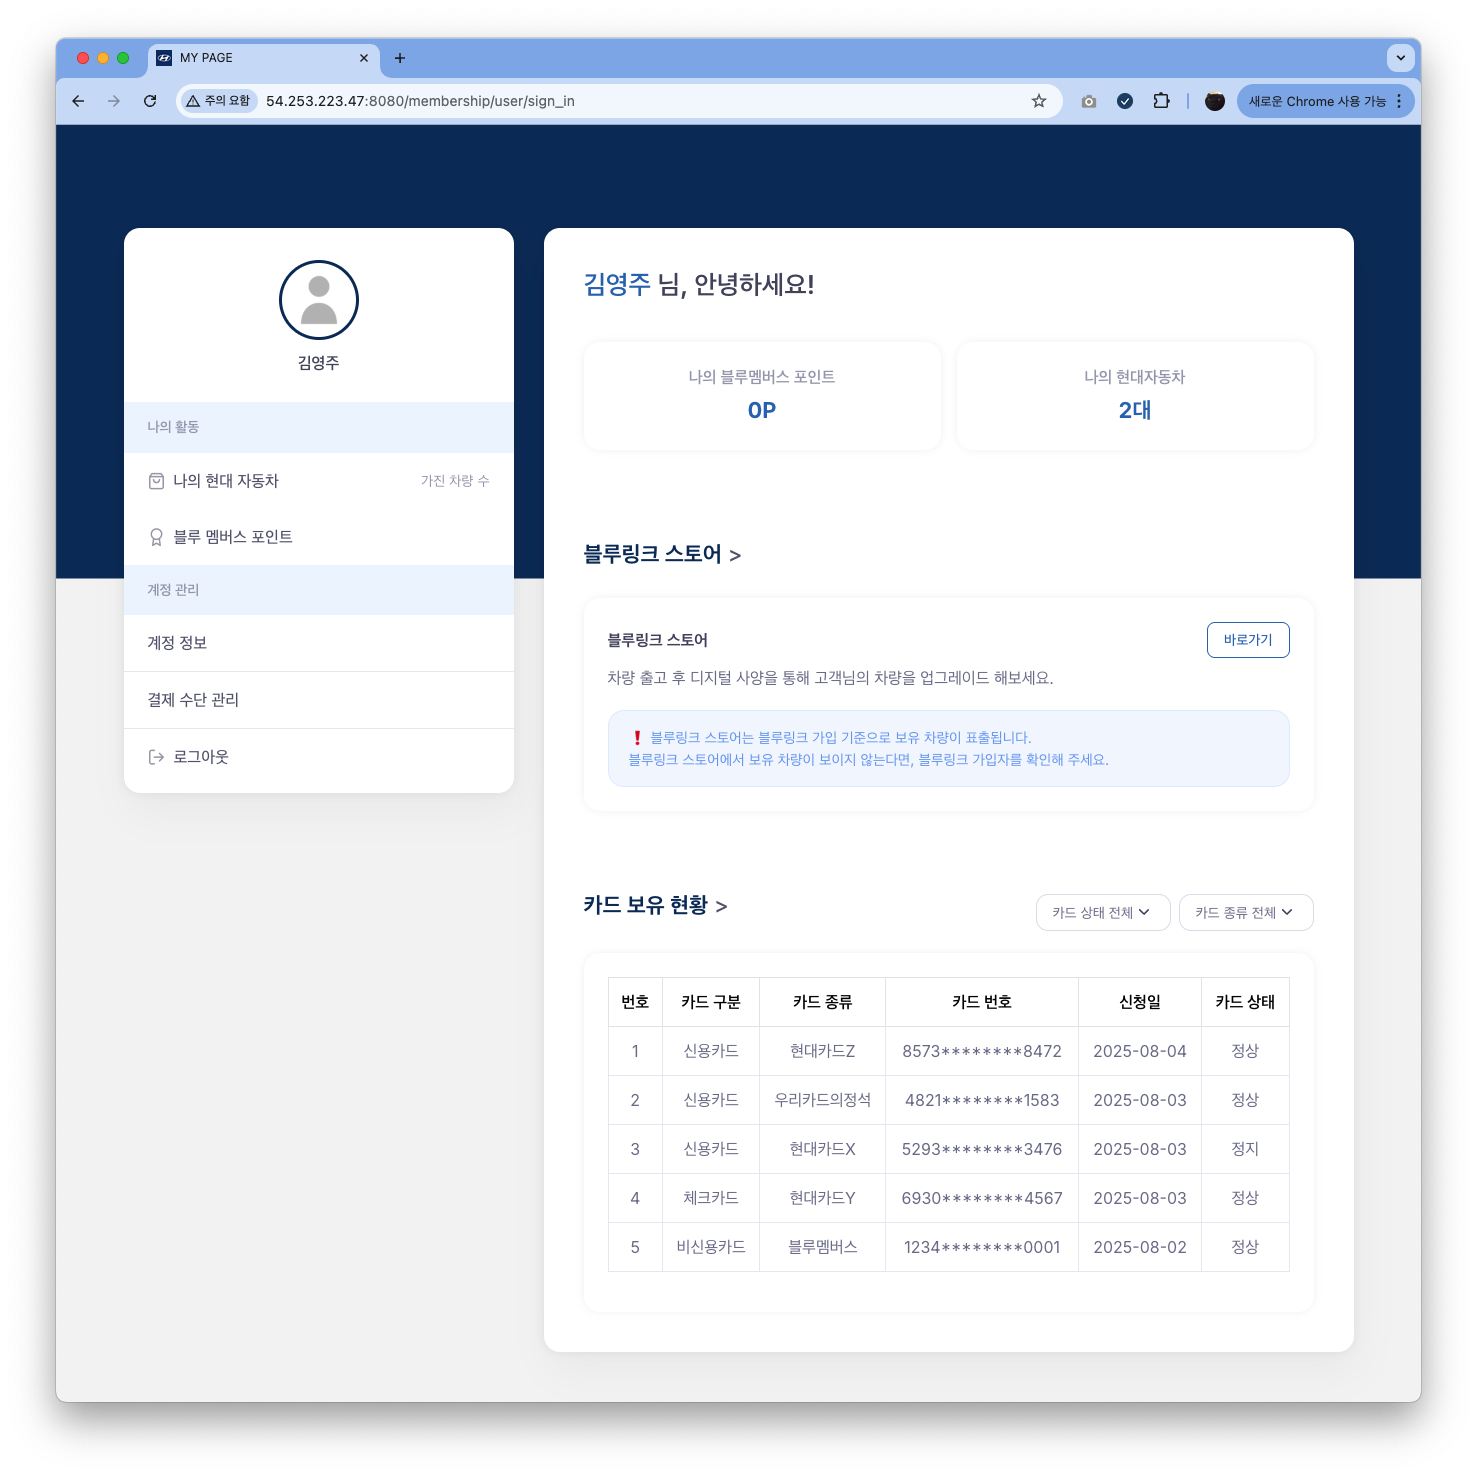
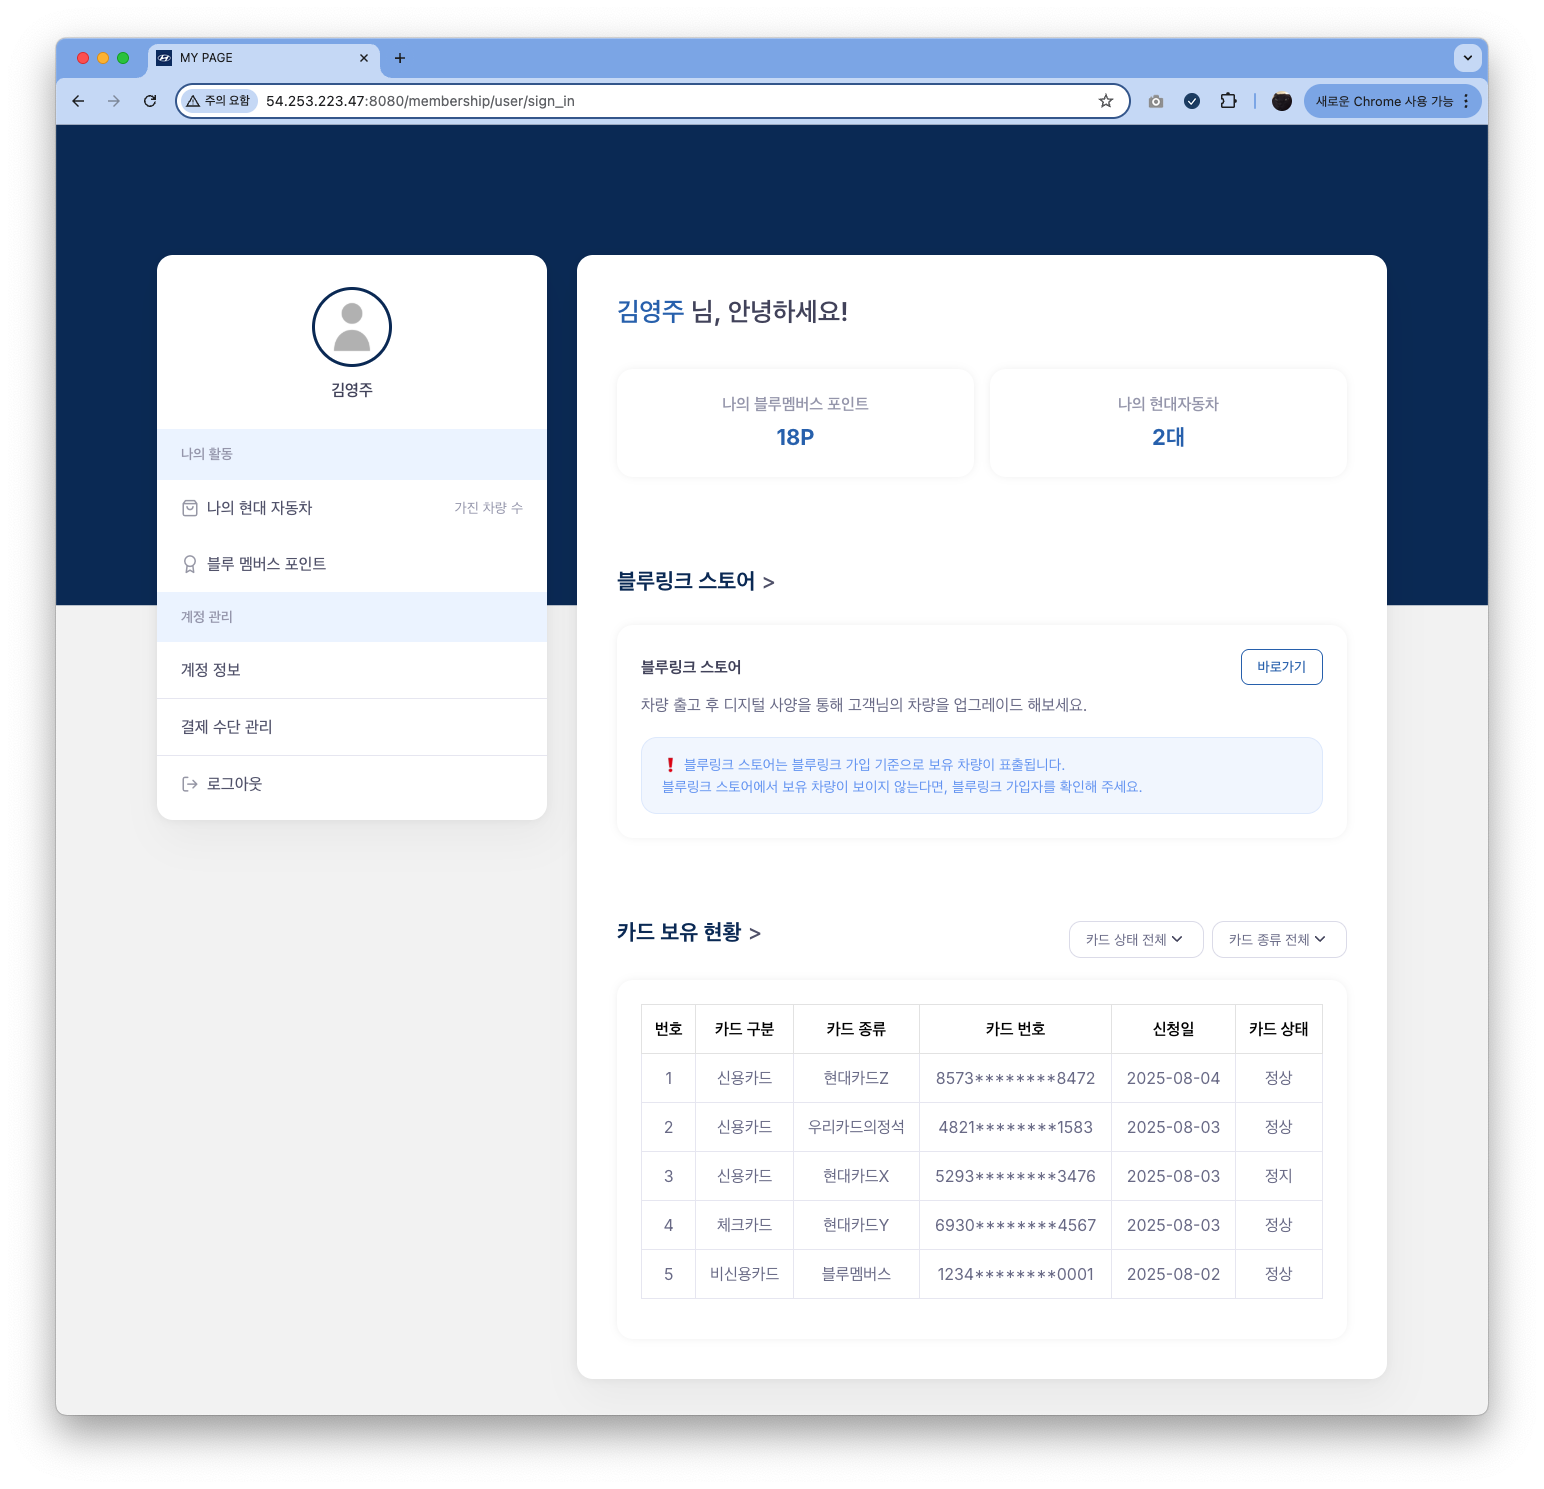
28th

diff --git a/html/workNetwork.html b/html/workNetwork.html
@@ -627,11 +627,11 @@ if (!isVerified) {
                                             <img src="../assets/img/collaborationTool.png" width="30" height="30">
                                             <span class="category-title"><strong>협업 툴</strong></span>
 
-                                            <div class="skill-tags">
+                                            <div class="skill-tags" style="margin-left: -30px;">
                                                 <span class="skill tag git">Git</span>
                                                 <span class="skill tag jira">Jira</span>
-                                                <span class="skill tag slack">Discord</span>
-                                                <span class="skill tag notion">Notion</span>
+                                                <!-- <span class="skill tag slack">Discord</span> -->
+                                                <!-- <span class="skill tag notion">Notion</span> -->
                                             </div>
                                         </div>
                                         </p>

diff --git a/html/mediSearch.html b/html/mediSearch.html
@@ -677,11 +677,11 @@
                                             <img src="../assets/img/collaborationTool.png" width="30" height="30">
                                             <span class="category-title"><strong>협업 툴</strong></span>
 
-                                            <div class="skill-tags">
+                                            <div class="skill-tags" style="margin-left: -30px;">
                                                 <span class="skill tag git">Git</span>
                                                 <span class="skill tag jira">Jira</span>
-                                                <span class="skill tag slack">Discord</span>
-                                                <span class="skill tag notion">Notion</span>
+                                                <!-- <span class="skill tag slack">Discord</span> -->
+                                                <!-- <span class="skill tag notion">Notion</span> -->
                                             </div>
                                         </div>
                                         </p>

diff --git a/html/CT_DLA_comparator.html b/html/CT_DLA_comparator.html
@@ -534,7 +534,7 @@
                                                 <span class="skill tag git">Git</span>
                                                 <!-- <span class="skill tag jira">Jira</span> -->
                                                 <!-- <span class="skill tag slack">Discord</span> -->
-                                                <span class="skill tag notion">Notion</span>
+                                                <!-- <span class="skill tag notion">Notion</span> -->
                                             </div>
                                         </div>
                                         </p>

diff --git a/html/membership.html b/html/membership.html
@@ -698,7 +698,7 @@ jobs:
 
                                             <div class="skill-tags">
                                                 <span class="skill tag git">Git</span>
-                                                <span class="skill tag notion">Notion</span>
+                                                <!-- <span class="skill tag notion">Notion</span> -->
                                             </div>
                                         </div>
                                         </p>

diff --git a/html/portfolio.html b/html/portfolio.html
@@ -345,7 +345,7 @@
 
                                             <div class="skill-tags">
                                                 <span class="skill tag git">Git</span>
-                                                <span class="skill tag notion">Notion</span>
+                                                <!-- <span class="skill tag notion">Notion</span> -->
                                             </div>
                                         </div>
                                         </p>

diff --git a/css/tagtag.css b/css/tagtag.css
@@ -167,7 +167,7 @@
 }
 
 .notion {
-    background-color: #000000;
+    background-color: #9d9d9d;
     columns: white;
 }
 
